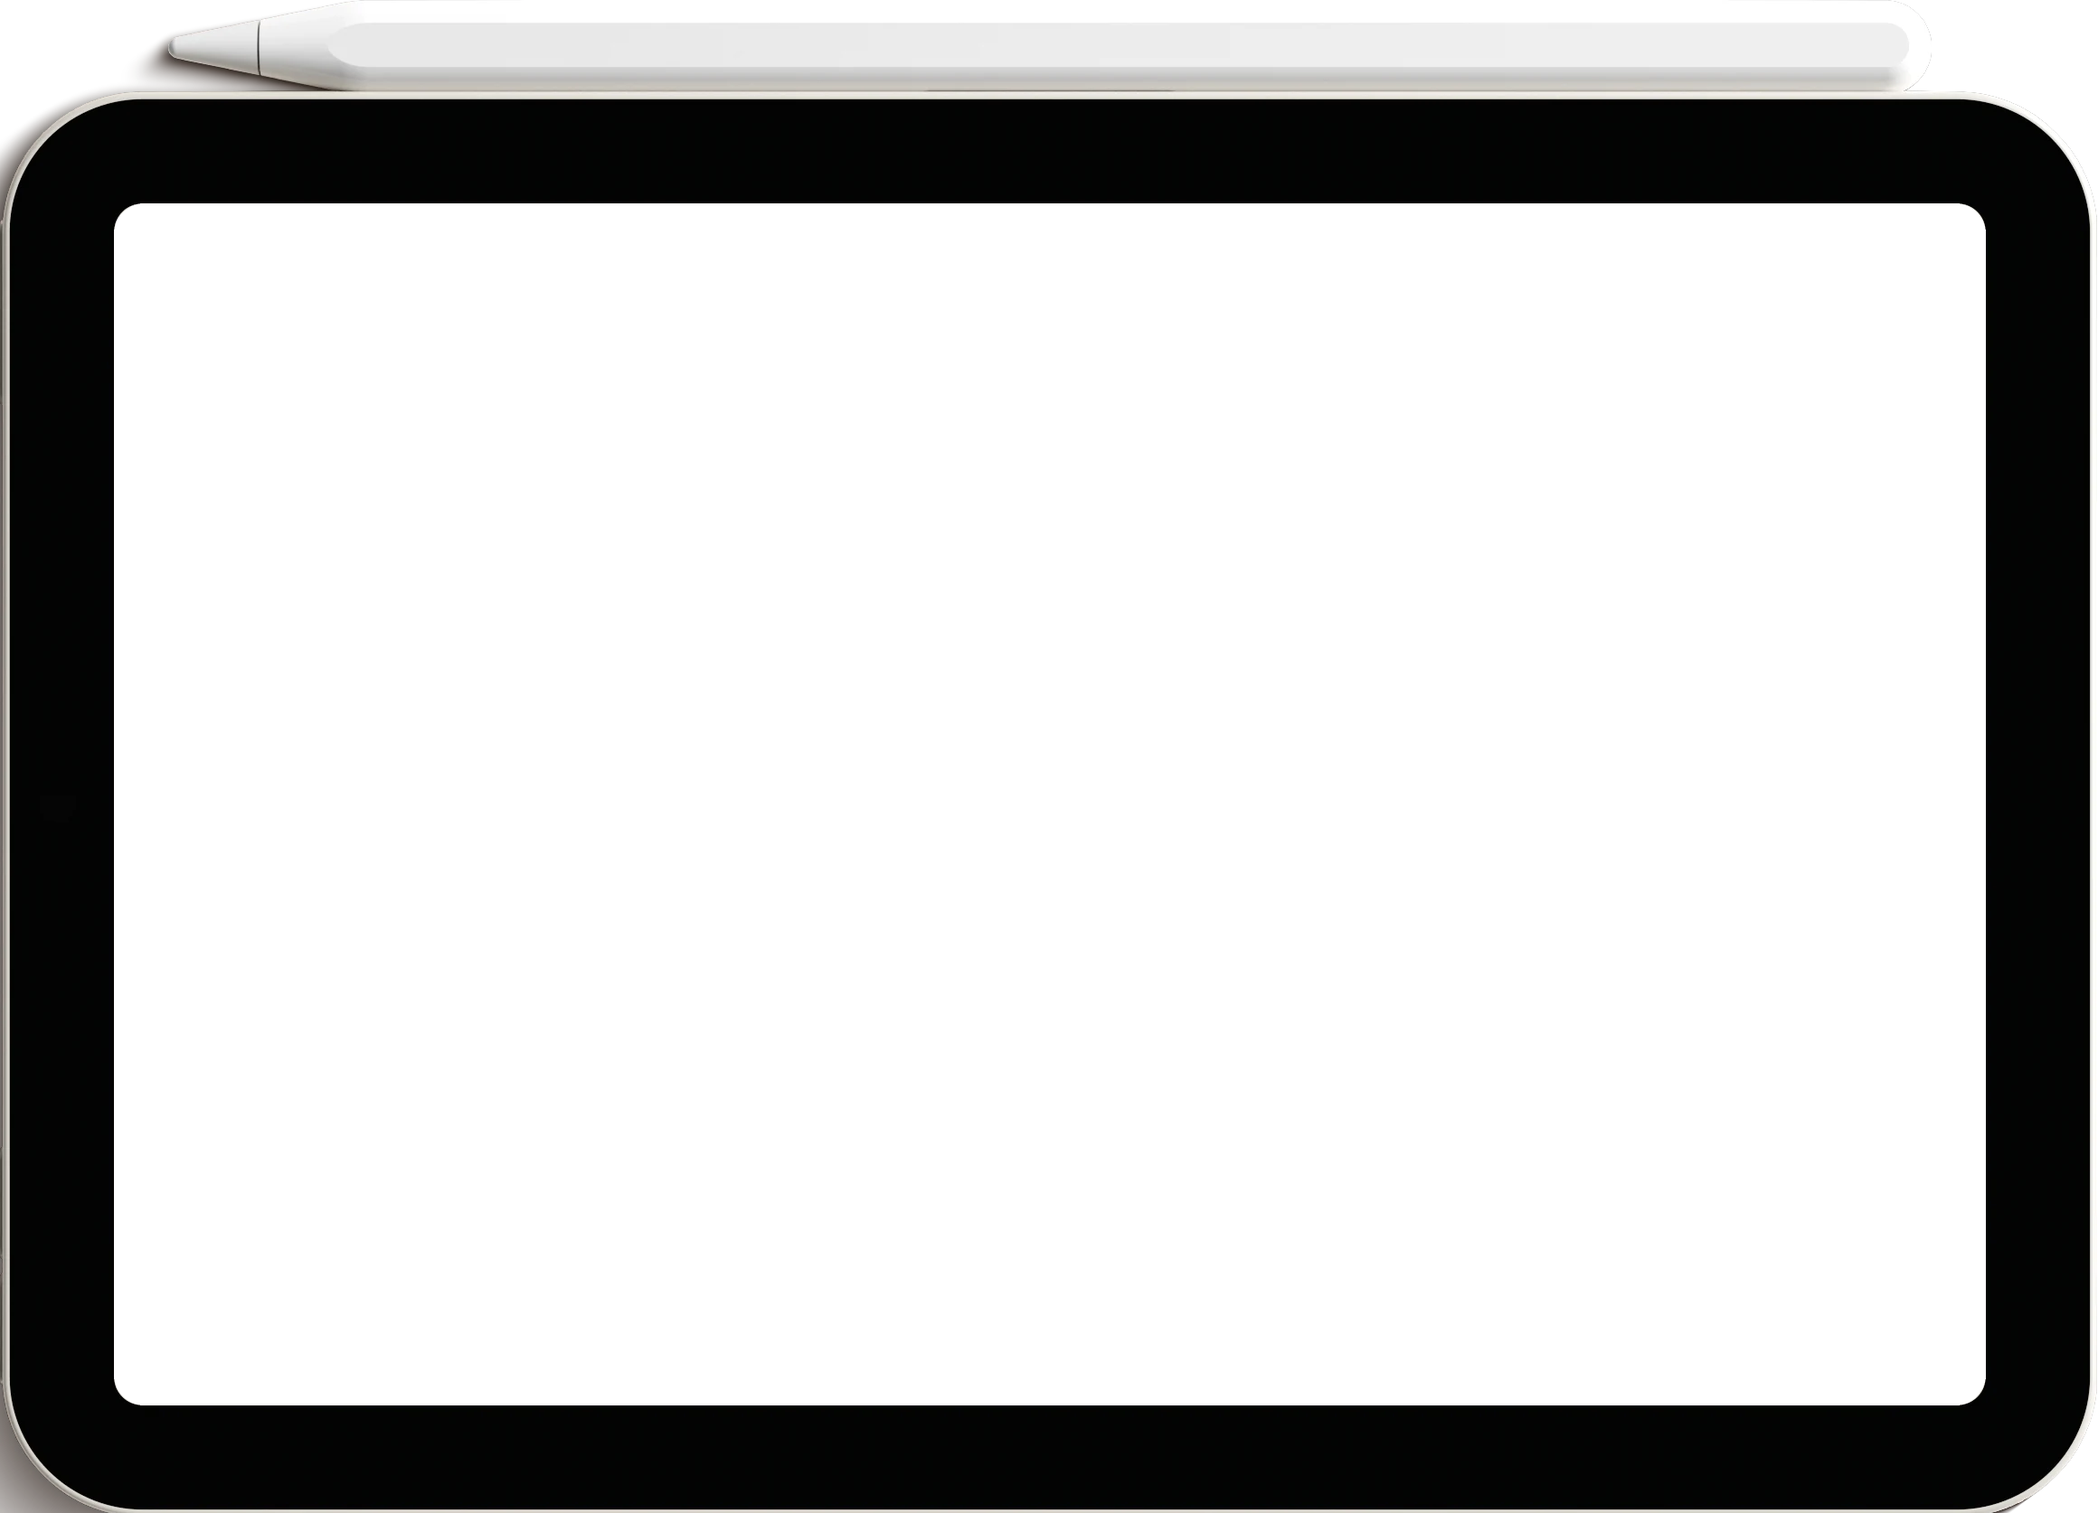
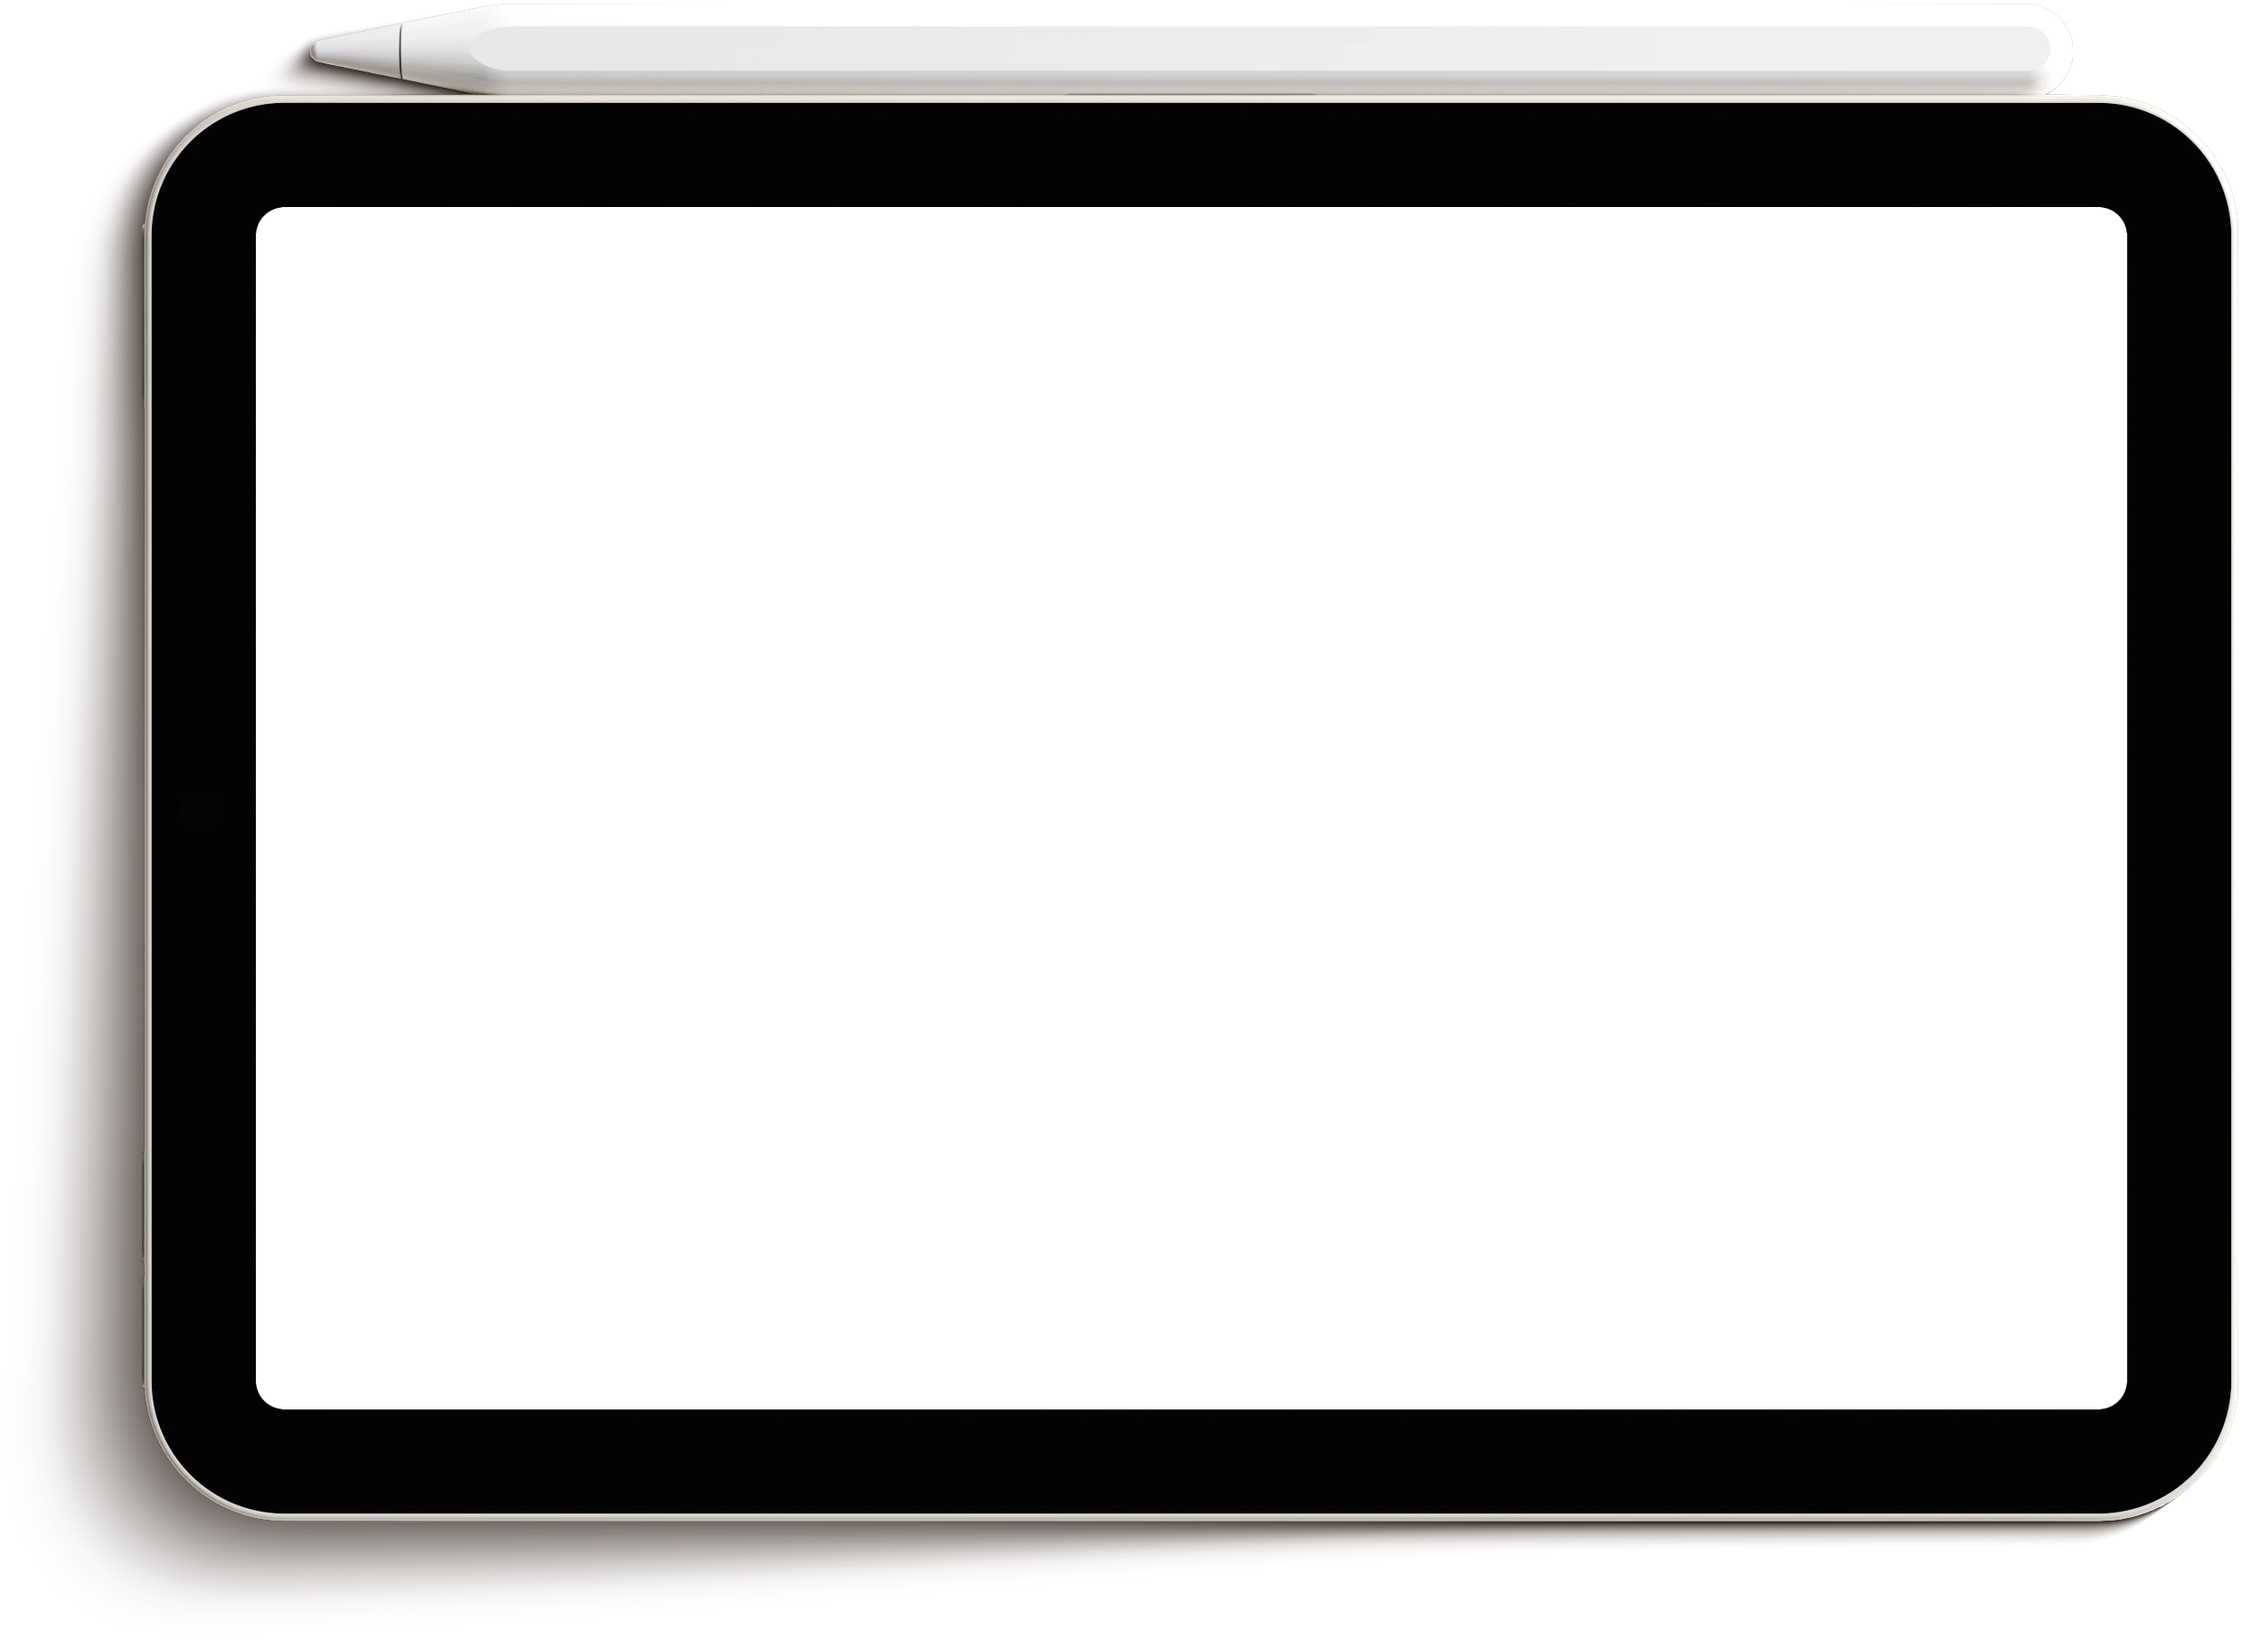
iPad desce junto com a tela até o cartão aparecer, e a sombra do iPad inteira
Ao rolar no computador, o iPad fica inteiro no meio da tela enquanto a paisagem passa por trás,
e pousa logo acima do texto do cartão; aí o texto sobe até o lugar. A paisagem ficou 300 px mais
alta (no Figma de 1920) para dar caminho ao iPad, e a foto e a aquarela do mouse acompanham.
A imagem do iPad agora traz a sombra inteira do mockup, sem o corte reto embaixo e à esquerda.

Changed region(s): [[0.0, 0.0, 1.0, 1.0]]

diff --git a/index.html b/index.html
@@ -74,22 +74,27 @@ h1 {
 .lead strong { font-weight: 700; color: var(--amarelo); }
 
 /* ---------- a cena: a paisagem, o iPad com o vídeo e o selo da Pinha ---------- */
-.cena { position: relative; margin-top: calc(40 * var(--s)); height: calc(1349 * var(--s)); }
+.cena { position: relative; margin-top: calc(40 * var(--s)); height: calc(1649 * var(--s)); }
 .paisagem {
   position: absolute; z-index: 1; overflow: hidden;
-  left: calc(42 * var(--s)); right: calc(42 * var(--s)); top: calc(228 * var(--s)); height: calc(1121 * var(--s));
+  left: calc(42 * var(--s)); right: calc(42 * var(--s)); top: calc(228 * var(--s)); height: calc(1421 * var(--s));
   border-radius: calc(60 * var(--s));
-  /* a foto da casa de pedra, enquadrada como no Figma */
-  background: url("casa.webp") 79% 58% / 142% auto no-repeat, var(--verde);
+  /* a foto da casa de pedra, enquadrada como no Figma. A paisagem é 300 px mais alta que no Figma
+     para o iPad ter caminho ao descer; a foto cresce o mínimo para cobrir essa altura. */
+  background: url("casa.webp") 79% 100% / max(142%, calc(2884 * var(--s))) auto no-repeat, var(--verde);
 }
 /* a tinta do mouse revela a aquarela por trás da foto, como no obrigado */
 .revela { position: absolute; inset: 0; width: 100%; height: 100%; pointer-events: none; }
 .ipad {
   position: absolute; z-index: 3; left: 50%; top: 0;
-  width: calc(1242 * var(--s)); margin-left: calc(-621 * var(--s));
+  width: calc(1242 * var(--s)); margin-left: calc(-621 * var(--s)); aspect-ratio: 2320 / 1674;
   will-change: transform;
 }
-.ipad-moldura { position: relative; z-index: 1; width: 100%; height: auto; pointer-events: none; }
+/* a imagem tem a sombra inteira em volta do iPad; a caixa .ipad é só o corpo e a caneta */
+.ipad-moldura {
+  position: absolute; z-index: 1; left: -6.767%; top: -.239%; width: 106.897%; height: auto; max-width: none;
+  pointer-events: none;
+}
 /* o vídeo fica atrás da moldura, no lugar da tela */
 .ipad video {
   position: absolute; z-index: 0; left: 5.43%; top: 13.44%; width: 89.18%; height: 79.39%;
@@ -264,7 +269,7 @@ html.carregando .abertura { position: fixed; inset: 0; z-index: 1000; display: g
   .lead { font-size: 12px; }
   .cena { height: auto; margin-top: 32px; padding-bottom: 96px; }
   .ipad { position: relative; left: auto; margin: 0 auto; width: min(94vw, 760px); }
-  .paisagem { left: 12px; right: 12px; top: 26%; height: auto; bottom: 0; border-radius: 28px; }
+  .paisagem { left: 12px; right: 12px; top: 26%; height: auto; bottom: 0; border-radius: 28px; background-position: 79% 58%, 0 0; background-size: 142% auto, auto; }
   .selo { left: 3vw; top: auto; bottom: 40px; width: clamp(96px, 22vw, 150px); height: auto; aspect-ratio: 160 / 162; }
   .cartao { width: auto; margin: -56px 12px 24px; padding: 36px 22px 32px; border-radius: 28px; }
   .cartao-conteudo { grid-template-columns: minmax(0, 1fr); row-gap: 8px; }
@@ -553,7 +558,7 @@ if (!matchMedia("(prefers-reduced-motion: reduce)").matches) document.documentEl
   <div class="ipad entra" style="--atraso: .3s">
     <video id="video-central" src="central-ipad.mp4?v=1" poster="central-ipad-capa.jpg?v=1" muted loop playsinline preload="none"
            aria-label="A CentralPinhal funcionando, aba por aba: Início, Tarefas, Hábitos, Segundo cérebro, Financeiro, Agenda e Conteúdo"></video>
-    <img class="ipad-moldura" src="ipad.webp" alt="" width="2320" height="1674">
+    <img class="ipad-moldura" src="ipad.webp?v=2" alt="" width="2480" height="1814">
   </div>
   <div class="selo" aria-hidden="true">
     <img class="selo-anel" src="selo.svg" alt="" width="160" height="162">
@@ -695,27 +700,47 @@ form.addEventListener("submit", async (evento) => {
 </script>
 
 <script>
-// Ao rolar (no computador): o iPad desce e passa por cima do cartão, enquanto o texto do cartão sobe.
-// Só mexe com transform, uma vez por quadro. Quem pediu menos movimento vê tudo parado.
+// Ao rolar (no computador): o iPad desce junto com a tela por cima da paisagem, inteiro e no meio da tela,
+// até pousar logo acima do texto do cartão; aí ele para e o texto do cartão sobe até o lugar.
+// Só mexe com translate, uma vez por quadro. Quem pediu menos movimento vê tudo parado.
 (function () {
-  const ipad = document.querySelector(".ipad"), sobe = document.querySelector(".cartao-conteudo");
+  const cena = document.querySelector(".cena"), ipad = cena.querySelector(".ipad");
+  const cartao = document.querySelector(".cartao"), sobe = cartao.querySelector(".cartao-conteudo");
   const pode = matchMedia("(min-width: 1081px) and (prefers-reduced-motion: no-preference)");
-  const DESCE = 200, SOBE = 200;                          // em px do Figma (1920)
-  let fila = false;
+  const SOBE = 200, FOLGA = 40;                           // em px do Figma (1920)
+  let m = null, fila = false;
+  const noTopo = (el) => { let y = 0; for (; el; el = el.offsetParent) y += el.offsetTop; return y; };
+  function medir() {
+    // offsetTop não conta o translate nem a entrada suave: são as posições paradas
+    const s = Math.min(innerWidth, 1920) / 1920, alto = ipad.offsetHeight;
+    const comeca = noTopo(ipad);                            // onde o iPad está com a página no topo
+    const pousa = noTopo(sobe) - FOLGA * s - alto;          // onde ele para: logo acima do texto do cartão
+    const fica = Math.max(0, (innerHeight - alto) / 2);     // enquanto desce, fica no meio da tela
+    const inicio = Math.max(0, comeca - fica), curso = Math.max(0, pousa - comeca);
+    // o fim da rolagem medido com o texto no lugar (o texto ainda abaixado aumentaria a página)
+    const antes = sobe.style.translate;
+    sobe.style.translate = "";
+    const fim = Math.max(1, document.documentElement.scrollHeight - innerHeight);
+    sobe.style.translate = antes;
+    m = { s, inicio, curso, fim };
+  }
   function atualiza() {
     fila = false;
     if (!pode.matches) { ipad.style.translate = ""; sobe.style.translate = ""; return; }
-    const s = Math.min(innerWidth, 1920) / 1920;
-    const fim = Math.max(1, document.documentElement.scrollHeight - innerHeight);
-    const p = Math.min(1, Math.max(0, scrollY / fim));
+    if (!m) medir();
+    const y = scrollY, solta = m.inicio + m.curso;
+    ipad.style.translate = "0 " + Math.min(m.curso, Math.max(0, y - m.inicio)).toFixed(1) + "px";
+    const p = m.fim > solta ? Math.min(1, Math.max(0, (y - solta) / (m.fim - solta))) : 1;
     const e = p * p * (3 - 2 * p);                          // começa e termina macio
-    ipad.style.translate = "0 " + (e * DESCE * s).toFixed(1) + "px";
-    sobe.style.translate = "0 " + ((1 - e) * SOBE * s).toFixed(1) + "px";
+    sobe.style.translate = "0 " + ((1 - e) * SOBE * m.s).toFixed(1) + "px";
   }
   const pede = () => { if (!fila) { fila = true; requestAnimationFrame(atualiza); } };
+  const remede = () => { m = null; pede(); };
   addEventListener("scroll", pede, { passive: true });
-  addEventListener("resize", pede);
-  if (pode.addEventListener) pode.addEventListener("change", pede);
+  addEventListener("resize", remede);
+  addEventListener("load", remede);
+  if (document.fonts) document.fonts.ready.then(remede);
+  if (pode.addEventListener) pode.addEventListener("change", remede);
   atualiza();
 })();
 </script>
@@ -734,10 +759,11 @@ form.addEventListener("submit", async (evento) => {
     W = paisagem.clientWidth; H = paisagem.clientHeight;
     tela.width = Math.ceil(W * ESC); tela.height = Math.ceil(H * ESC);
     if (!aquarela.naturalWidth) return;
-    // onde a foto está: o mesmo cálculo do CSS (142% da largura, posição 79% 58%)
+    // onde a foto está: o mesmo cálculo do CSS (no computador: 142% da largura ou 2884 px, posição 79% 100%)
     const iw = aquarela.naturalWidth, ih = aquarela.naturalHeight;   // a foto e a aquarela têm o mesmo tamanho de arquivo
-    const fw = W * 1.42, fh = fw * ih / iw;
-    const PL = (W - fw) * .79, PT = (H - fh) * .58;
+    const largo = matchMedia("(min-width: 1081px)").matches, s = Math.min(innerWidth, 1920) / 1920;
+    const fw = largo ? Math.max(W * 1.42, 2884 * s) : W * 1.42, fh = fw * ih / iw;
+    const PL = (W - fw) * .79, PT = (H - fh) * (largo ? 1 : .58);
     // a aquarela no mesmo lugar em relação à foto que no Figma (foto x -607, y -13, 2668 de largura;
     // aquarela x -529, y 0, 2574×1449), para os elementos coincidirem
     const k = fw / 2668;
